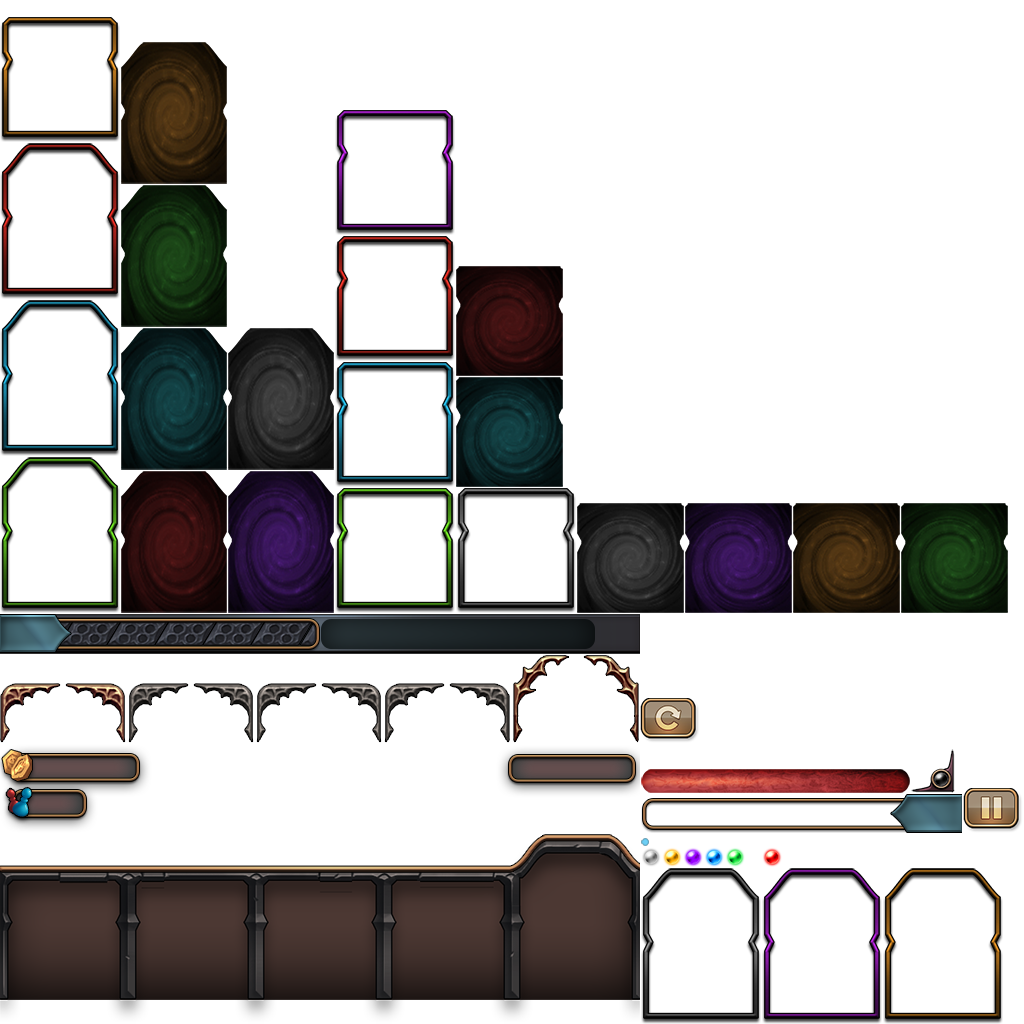
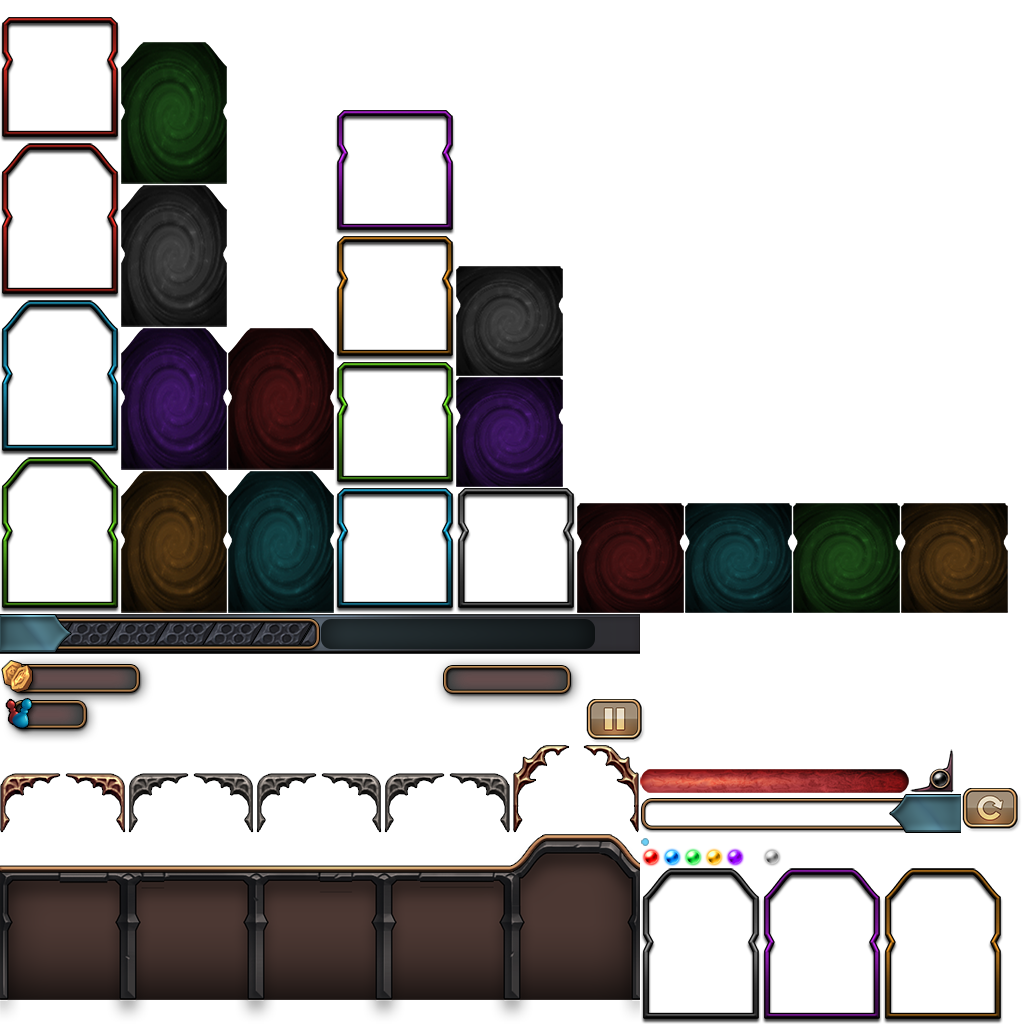
no message

diff --git a/Assets/_Scripts/Controller/BattleUI/Reconstruction/BattleOperate/EnemyItem.cs b/Assets/_Scripts/Controller/BattleUI/Reconstruction/BattleOperate/EnemyItem.cs
@@ -123,8 +123,7 @@ public class EnemyItem : UIBaseUnity {
     void RemoveHurtLabel() {
         Destroy(hurtValueQueue.Dequeue());
     }
-
-
+	
     void ShowInjuredEffect(AttackInfo ai) {
 //		GameObject obj = DataCenter.Instance.GetEffect(ai) as GameObject;
 //		DGTools.PlayAttackSound(ai.AttackType);
@@ -194,9 +193,8 @@ public class EnemyItem : UIBaseUnity {
 		initStateExceptionSprite = stateExceptionSprite.transform.localPosition;
 
 		enemyUnitInfo = DataCenter.Instance.GetUnitInfo (te.UnitID); //UnitInfo[te.UnitID];
-		enemyUnitInfo.GetAsset(UnitAssetType.Profile,o=>{
+		enemyUnitInfo.GetAsset(UnitAssetType.Profile,o=> {
 			Texture2D tex = o as Texture2D;
-
 			if (tex == null) {
 				texture.mainTexture = null;
 				stateSprite.transform.localPosition = texture.transform.localPosition + new Vector3(0f, 100f, 0f);
@@ -210,7 +208,6 @@ public class EnemyItem : UIBaseUnity {
 
 			callBack();
 		});
-
     }
 
     public override void DestoryUI() {
@@ -367,16 +364,6 @@ public class EnemyItem : UIBaseUnity {
 		UISprite sprite = ins.GetComponent<UISprite> ();
 		sprite.enabled = true;
 		ins.localPosition = initStateExceptionSprite;
-//		foreach (var item in stateCache.Values) {
-//			Vector3 localposition = ins.localPosition;
-//			float distance = Vector3.Distance(localposition, item.transform.localPosition);
-//			if(distance <= 2){	// deviation distance.
-//				ins.localPosition = new Vector3(localposition.x - 30f, localposition.y, localposition.z); 
-//			}
-//			else{
-//				break;
-//			}
-//		}
 		DGTools.SortStateItem (stateCache, ins, -30f); // -30f. enemy state sprite sort is right to left.
 		stateCache.Add (se, ins.gameObject);
 	}

diff --git a/Assets/_Scripts/Model/Battle/Trap/InjuredTrap.cs b/Assets/_Scripts/Model/Battle/Trap/InjuredTrap.cs
@@ -139,24 +139,26 @@ public class TrapBase : ProtobufDataBase ,ITrapExcute{
 		}
 	}
 
+	private const string trapName = "icon_trap";
+
 	public string GetTrapSpriteName () {
-		string spriteName = "";
-		switch (instance.trapType) {
-		case ETrapType.Move:
-			spriteName = MoveTrapName(instance.effectType);
-			break;
-		case ETrapType.Injured:
-			spriteName = InjuredTrapName(instance.effectType);
-			break;
-		case ETrapType.StateException:
-			spriteName = poisonTrapSpriteName;
-			break;
-		case ETrapType.ChangeEnvir:
-			spriteName = environmentSpriteName;
-			break;
-		default:
-			break;
-		}
+		string spriteName = trapName;
+//		switch (instance.trapType) {
+//		case ETrapType.Move:
+//			spriteName = MoveTrapName(instance.effectType);
+//			break;
+//		case ETrapType.Injured:
+//			spriteName = InjuredTrapName(instance.effectType);
+//			break;
+//		case ETrapType.StateException:
+//			spriteName = poisonTrapSpriteName;
+//			break;
+//		case ETrapType.ChangeEnvir:
+//			spriteName = environmentSpriteName;
+//			break;
+//		default:
+//			break;
+//		}
 		return spriteName;
 	}
 

diff --git a/Assets/_Scripts/Controller/BattleUI/Reconstruction/BattleMap/RoleStateException.cs b/Assets/_Scripts/Controller/BattleUI/Reconstruction/BattleMap/RoleStateException.cs
@@ -37,12 +37,10 @@ public class RoleStateException {
 			if(round == 0) {
 				GameObject.Destroy(go);
 				roleStateDic.Remove(trapState);
-			}
-			else{
+			} else {
 				label = go.transform.Find("Label").GetComponent<UILabel>();
 				label.text = round.ToString();
 			}
-
 			return;
 		}
 
@@ -53,11 +51,11 @@ public class RoleStateException {
 		GameObject ins = NGUITools.AddChild (ViewManager.Instance.BottomLeftPanel, srcObject);
 		UISprite sprite = ins.transform.Find ("Sprite").GetComponent<UISprite> ();
 		label = ins.transform.Find("Label").GetComponent<UILabel>();
-		sprite.spriteName = spriteName; 
+//		sprite.spriteName = spriteName; 
 		label.text = round.ToString();
 		ins.transform.localPosition = srcObject.transform.localPosition;
 
-		DGTools.SortStateItem (roleStateDic, ins.transform, 30f);
+		DGTools.SortStateItem (roleStateDic, ins.transform, 40f);
 		roleStateDic.Add (trapState, ins);
 	}
 

diff --git a/Assets/_Scripts/View/UI/Quest/HomeView.cs b/Assets/_Scripts/View/UI/Quest/HomeView.cs
@@ -27,24 +27,24 @@ public class HomeView : UIComponentUnity{
 		GameTimer.GetInstance ().CheckRefreshServer ();
 
 		ShowRewardInfo ();
-
 	}
 
-	private void OnRefreshRewardList(object data){
+	private void OnRefreshRewardList(object data) {
 		ShowRewardInfo ();
 	}
 
-	private void ShowRewardInfo(){
+	private void ShowRewardInfo() {
 		int count = 0;
 		foreach (var item in DataCenter.Instance.LoginInfo.Bonus) {
-			if(item.enabled == 1){
+			if(item.enabled == 1) {
 				count++;
 			}
 		}
+
 		if (count > 0) {
 			FindChild<UILabel> ("Icons/Reward/Num").enabled = true;
 			FindChild<UISprite> ("Icons/Reward/NumBG").enabled = true;
-			FindChild<UILabel> ("Icons/Reward/Num").text = count + "";	
+			FindChild<UILabel> ("Icons/Reward/Num").text = count + "";
 		} else {
 			FindChild<UILabel> ("Icons/Reward/Num").enabled = false;
 			FindChild<UISprite> ("Icons/Reward/NumBG").enabled = false;

diff --git a/Assets/_Scripts/Model/Battle/PassiveSkill/ExcutePassiveSkill.cs b/Assets/_Scripts/Model/Battle/PassiveSkill/ExcutePassiveSkill.cs
@@ -77,10 +77,8 @@ public class ExcutePassiveSkill : IExcutePassiveSkill  {
 	public List<AttackInfo> Dispose (int AttackType, int attack) {
 		attackList.Clear ();
 		foreach (var item in passiveSkill) {
-//			Debug.LogError("dispose : " + item.Value);
 			if(item.Value is TSkillAntiAttack) {
 				AttackInfo ai = item.Value.Excute(AttackType, this) as AttackInfo;
-//				Debug.LogError("dispose attackinfo : " + ai);
 				if(ai != null) {
 					ai.SkillID = item.Value.skillBaseInfo.skillBase.id;
 					ai.UserUnitID = item.Key;
@@ -94,7 +92,6 @@ public class ExcutePassiveSkill : IExcutePassiveSkill  {
 	}
 
 	public void DisposeTrap (bool isAvoid) {
-//		Debug.LogError ("trap.Count : " + trap.Count + " isAvoid : " + isAvoid);
 		if (trap.Count == 0) {
 			return;	
 		}

diff --git a/Assets/_Scripts/Controller/BattleUI/Reconstruction/BattleMap/MapItem.cs b/Assets/_Scripts/Controller/BattleUI/Reconstruction/BattleMap/MapItem.cs
@@ -116,7 +116,8 @@ public class MapItem : UIBaseUnity {
 				backSpriteName = gridItem.TrapInfo.GetTrapSpriteName();
 				break;
 			case bbproto.EQuestGridType.Q_TREATURE:
-				backSpriteName = "S";
+				backSpriteName = "icon_chest"; //"S";
+
 				break;
 			default:
 				break;

diff --git a/Assets/_Scripts/Controller/BattleUI/Reconstruction/BattleMap/BattleQuest.cs b/Assets/_Scripts/Controller/BattleUI/Reconstruction/BattleMap/BattleQuest.cs
@@ -485,6 +485,7 @@ public class BattleQuest : UIBase {
 			}
 
 			currentMapData = questDungeonData.GetSingleFloor (coor);
+
 			role.Stop ();
 			if (currentMapData.Star == EGridStar.GS_KEY) {
 				BattleMap.waitMove = true;
